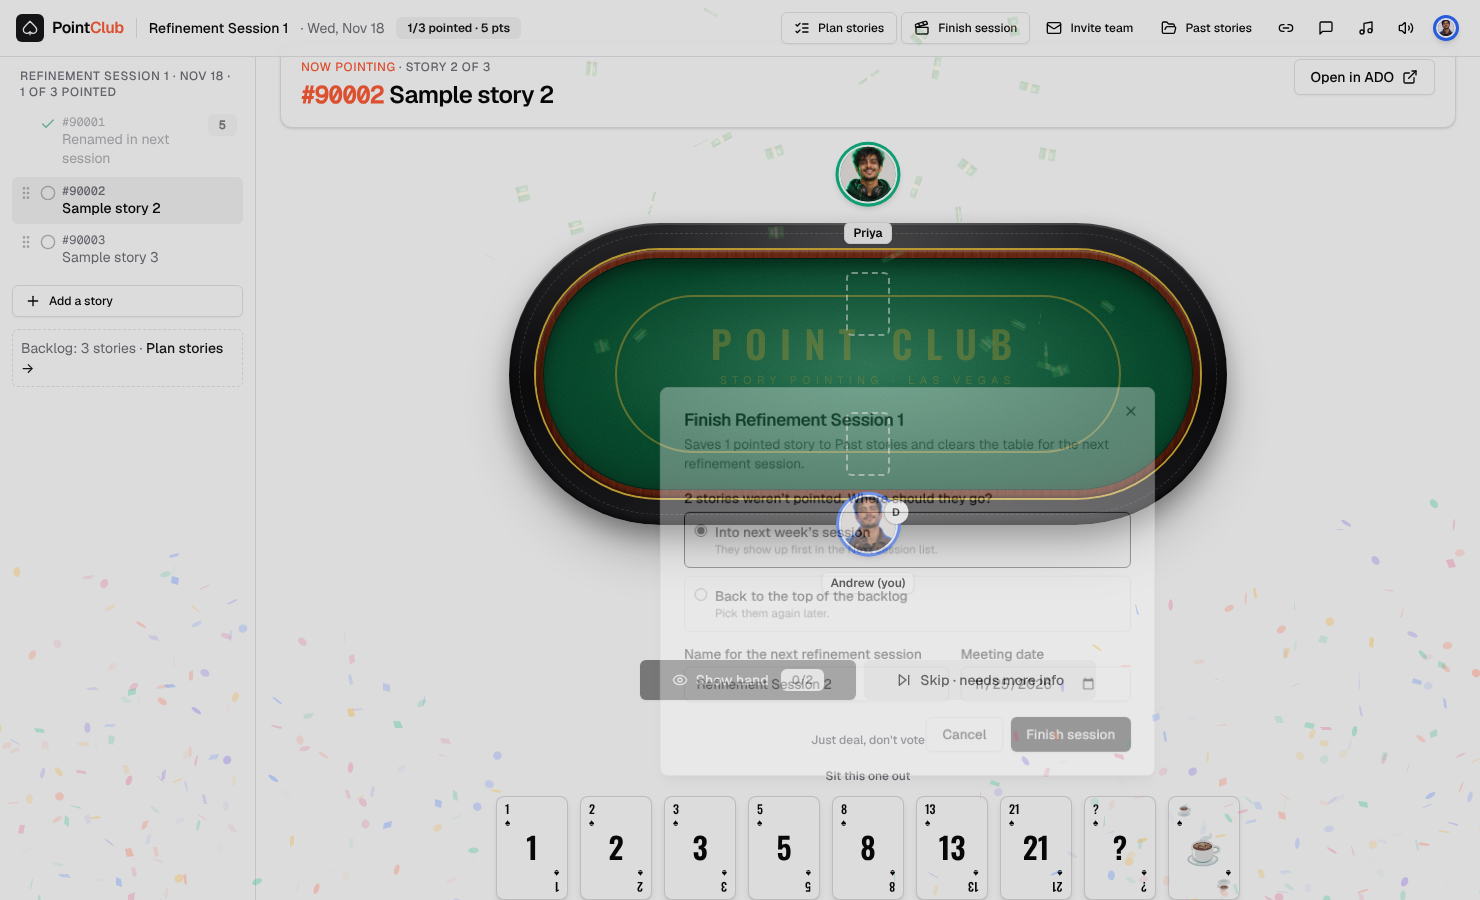
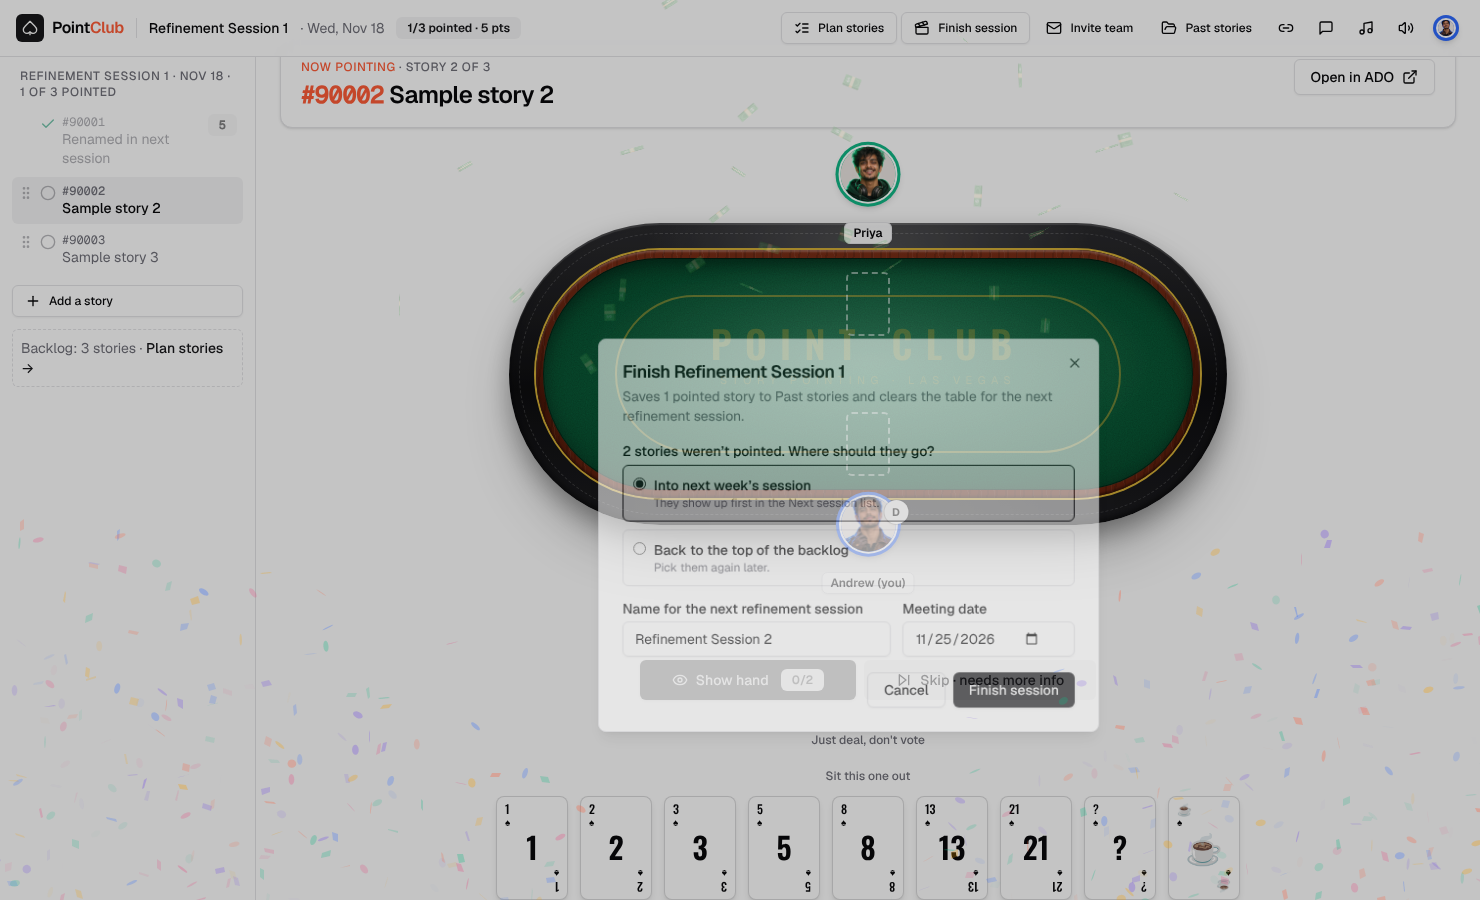
Paste a list of titles without story numbers; pasted links bring their numbers
- Paste a list: lines without a number become stories marked 'Add #' to fill in later
- Pasting rich text where titles are links (ADO, email, Word, Excel) keeps each link and reads
  the story number from it
- Stories without a number show 'No # yet'

Claude-Session: https://claude.ai/code/session_01EANrJrMtc4n72hiZrseqCf

diff --git a/src/screens/Planner.tsx b/src/screens/Planner.tsx
@@ -172,14 +172,14 @@ export function Planner({ api, onBack }: { api: RoomApi; onBack: () => void }) {
                       {isHost ? <input type="checkbox" className="mt-2 h-4 w-4 accent-[hsl(var(--primary))]" checked={picked.includes(s.id)} aria-label={`Pick #${s.number}`}
                         onChange={(e) => setPicked((p) => (e.target.checked ? [...p, s.id] : p.filter((x) => x !== s.id)))} /> : <span />}
                       {isHost ? <>
-                        <Cell value={s.number} numeric className="font-mono" textClass="font-mono text-sm" ariaLabel={`Story number for #${s.number}`} onSave={(v) => save(s, { number: v })} />
+                        <Cell value={s.number} numeric placeholder="Add #" className="font-mono" textClass={cn("font-mono text-sm", !s.number && "text-amber-700")} ariaLabel={`Story number for #${s.number}`} onSave={(v) => save(s, { number: v })} />
                         <div className="min-w-0">
                           <Cell value={s.title} textClass="text-sm leading-snug line-clamp-2 break-words" ariaLabel={`Title for #${s.number}`} onSave={(v) => v && save(s, { title: v })} />
                           {s.note && <div className="truncate px-2 text-xs text-amber-800" title={s.note}>{s.note}</div>}
                         </div>
                         <LinkCell story={s} onSave={(v) => save(s, { url: v })} />
                       </> : <>
-                        <span className="px-2 font-mono text-sm">#{s.number}</span>
+                        <span className="px-2 font-mono text-sm">{s.number ? `#${s.number}` : 'No # yet'}</span>
                         <span className="min-w-0 px-2 py-1 text-sm leading-snug">{s.title}</span>
                         <span className="px-2 py-1 text-xs">{s.url && <a href={s.url} target="_blank" rel="noreferrer" className="inline-flex items-center gap-1 text-primary hover:underline">ADO <ExternalLink className="h-3 w-3" /></a>}</span>
                       </>}
@@ -217,10 +217,10 @@ export function Planner({ api, onBack }: { api: RoomApi; onBack: () => void }) {
                       <span className="pt-1.5 text-right font-mono text-xs text-muted-foreground">{i + 1}</span>
                       <div className="min-w-0">
                         {isHost ? <>
-                          <Cell value={s.number} numeric className="w-28 font-mono" textClass="w-auto py-0.5 font-mono text-xs text-muted-foreground" ariaLabel={`Story number for #${s.number}`} onSave={(v) => save(s, { number: v })} />
+                          <Cell value={s.number} numeric placeholder="Add #" className="w-28 font-mono" textClass={cn("w-auto py-0.5 font-mono text-xs", s.number ? "text-muted-foreground" : "text-amber-700")} ariaLabel={`Story number for #${s.number}`} onSave={(v) => save(s, { number: v })} />
                           <Cell value={s.title} textClass="py-0.5 leading-snug break-words" ariaLabel={`Title for #${s.number}`} onSave={(v) => v && save(s, { title: v })} />
                           {s.note && <div className="px-2 text-xs text-amber-800">{s.note}</div>}
-                        </> : <div className="px-2"><div className="font-mono text-xs text-muted-foreground">#{s.number}</div><div className="leading-snug">{s.title}</div></div>}
+                        </> : <div className="px-2"><div className="font-mono text-xs text-muted-foreground">{s.number ? `#${s.number}` : 'No # yet'}</div><div className="leading-snug">{s.title}</div></div>}
                       </div>
                       <div className="flex flex-col items-end gap-0.5">
                         {isHost ? <LinkCell story={s} onSave={(v) => save(s, { url: v })} />
@@ -254,9 +254,9 @@ export function Planner({ api, onBack }: { api: RoomApi; onBack: () => void }) {
                       <span className="pt-1.5 text-right font-mono text-xs text-muted-foreground">{i + 1}</span>
                       <div className="min-w-0">
                         {isHost && !locked && !s.skipped ? <>
-                          <Cell value={s.number} numeric className="w-28 font-mono" textClass="w-auto py-0.5 font-mono text-xs text-muted-foreground" ariaLabel={`Story number for #${s.number}`} onSave={(v) => save(s, { number: v })} />
+                          <Cell value={s.number} numeric placeholder="Add #" className="w-28 font-mono" textClass={cn("w-auto py-0.5 font-mono text-xs", s.number ? "text-muted-foreground" : "text-amber-700")} ariaLabel={`Story number for #${s.number}`} onSave={(v) => save(s, { number: v })} />
                           <Cell value={s.title} textClass="py-0.5 leading-snug break-words" ariaLabel={`Title for #${s.number}`} onSave={(v) => v && save(s, { title: v })} />
-                        </> : <div className="px-2"><div className="font-mono text-xs text-muted-foreground">#{s.number}</div><div className="leading-snug">{s.title}</div></div>}
+                        </> : <div className="px-2"><div className="font-mono text-xs text-muted-foreground">{s.number ? `#${s.number}` : 'No # yet'}</div><div className="leading-snug">{s.title}</div></div>}
                       </div>
                       <div className="flex flex-col items-end gap-0.5 pt-0.5">
                         {locked ? <Badge variant="secondary" className="font-mono">{label(s.points!)} pts</Badge>

diff --git a/src/lib/parseStories.ts b/src/lib/parseStories.ts
@@ -44,7 +44,7 @@ function cleanTitle(title: string): string {
  * Handles ADO backlog screenshots where each line is "<row #> <work item ID> <title>": the short row number is
  * ignored and the long work item ID becomes the story number. A link on the same line becomes the story's link.
  */
-export function parseStories(text: string): ParsedStory[] {
+export function parseStories(text: string, opts: { allowMissingNumber?: boolean } = {}): ParsedStory[] {
   const lines = text.split(/\r?\n/).map((l) => l.replace(/[•●○◆■□]/g, ' ').replace(/^[\s|]+|[\s|]+$/g, '').replace(/\s+/g, ' ').trim()).filter(Boolean)
   const out: ParsedStory[] = []
   const seen = new Set<string>()
@@ -65,7 +65,17 @@ export function parseStories(text: string): ParsedStory[] {
     const m2 = rest.match(/^[:.\-–—|)\]]*\s*#?(\S+)\s*(.*)$/)
     const second = asNumber(m2?.[1])
     if (second && second.length >= 5 && rowNum) { number = second; rest = m2![2] ?? '' }
-    if (!number) continue
+    if (!number) {
+      // Pasted list of titles without numbers: keep them (number from the link if there is one, else left blank to fill in).
+      if (!opts.allowMissingNumber || !/[A-Za-z]{3}/.test(line) || line.length < 6) continue
+      const fromUrl = url?.match(/(\d{4,8})(?!.*\d{4,8})/)?.[1] ?? ''
+      const t = cleanTitle(line)
+      const key = fromUrl || 't:' + t.toLowerCase()
+      if (t.length < 3 || seen.has(key)) continue
+      seen.add(key)
+      out.push(url ? { number: fromUrl, title: t, url } : { number: fromUrl, title: t })
+      continue
+    }
 
     let title = cleanTitle(rest)
     // Number alone on a line: the title is usually the next line.
@@ -88,4 +98,27 @@ export function toAdoPattern(input: string): string {
   if (!s || s.includes('{id}')) return s
   const m = s.match(/^(.*?)(\d{3,8})(\D*)$/) // last run of digits is the work item id
   return m ? `${m[1]}{id}${m[3]}` : s
+}
+
+/**
+ * Stories from pasted rich text (ADO, email, Word, Excel) where each title is a link: the link becomes the story's
+ * ADO link and the work item number is read from it (e.g. ...?workitem=650454 or .../edit/650454).
+ */
+export function parseHtmlLinks(html: string): ParsedStory[] {
+  const out: ParsedStory[] = []
+  const seen = new Set<string>()
+  const decode = (t: string) => t.replace(/<[^>]+>/g, '').replace(/&nbsp;/g, ' ').replace(/&amp;/g, '&').replace(/&lt;/g, '<').replace(/&gt;/g, '>').replace(/&quot;/g, '"').replace(/&#39;/g, "'").replace(/\s+/g, ' ').trim()
+  for (const m of html.matchAll(/<a\b[^>]*href\s*=\s*["']([^"']+)["'][^>]*>([\s\S]*?)<\/a>/gi)) {
+    const url = decode(m[1]); const text = decode(m[2])
+    if (!/^https?:\/\//i.test(url) || !/[A-Za-z]{3}/.test(text)) continue
+    const number = url.match(/(?:workitem=|\/edit\/|\/workitems?\/)(\d{3,8})/i)?.[1] ?? url.match(/(\d{5,8})(?!.*\d{5,8})/)?.[1] ?? ''
+    // The link text may itself start with the number ("650454 Title"); keep just the title.
+    const lead = text.match(/^#?(\d{3,8})\s*[:\-–—]?\s*(.*)$/)
+    const title = cleanTitle(lead && (!number || lead[1] === number) ? lead[2] : text)
+    const num = number || lead?.[1] || ''
+    const key = num || 't:' + title.toLowerCase()
+    if (title.length < 3 || seen.has(key)) continue
+    seen.add(key); out.push({ number: num, title, url })
+  }
+  return out
 }

diff --git a/src/components/StoryImport.tsx b/src/components/StoryImport.tsx
@@ -5,7 +5,7 @@ import { Input } from '@/components/ui/input'
 import { Textarea } from '@/components/ui/textarea'
 import { Dialog, DialogContent, DialogDescription, DialogHeader, DialogTitle } from '@/components/ui/dialog'
 import { readImage } from '@/lib/ocr'
-import { parseStories, type ParsedStory } from '@/lib/parseStories'
+import { parseHtmlLinks, parseStories, type ParsedStory } from '@/lib/parseStories'
 
 // Password managers mistake these boxes for login fields and add their own icons; tell them to stay out.
 export const NO_AUTOFILL = { autoComplete: 'off', 'data-lpignore': 'true', 'data-1p-ignore': 'true', 'data-bwignore': 'true', 'data-form-type': 'other' } as const
@@ -63,8 +63,8 @@ export function StoryImport({ onAdd }: { onAdd: Add }) {
   }, []) // eslint-disable-line react-hooks/exhaustive-deps
 
   const addList = async () => {
-    const found = parseStories(raw)
-    if (!found.length) { setError('No stories found. Put one story per line: the number, then the title.'); return }
+    const found = parseStories(raw, { allowMissingNumber: true })
+    if (!found.length) { setError('No stories found. Put one story per line.'); return }
     setError(null); report('List added', await onAdd(found)); setRaw('')
   }
   const addOne = async () => {
@@ -102,8 +102,13 @@ export function StoryImport({ onAdd }: { onAdd: Add }) {
       )}
       {mode === 'list' && (
         <div className="grid gap-2">
-          <p className="text-xs text-muted-foreground">One story per line: the story number, then the title.</p>
-          <Textarea autoFocus className="h-24 font-mono text-xs" placeholder={'123456 Story title\n123457 Another story title'} value={raw} onChange={(e) => setRaw(e.target.value)} aria-label="Paste stories" />
+          <p className="text-xs text-muted-foreground">One story per line. The story number is optional (you can add it after). Copying from ADO, an email or a doc where the titles are links? Paste here and the links come along, with the story numbers read from them.</p>
+          <Textarea autoFocus onPaste={async (e) => {
+            // Titles that are links (from ADO, email, Word, Excel): keep the link and read the story number from it.
+            const html = e.clipboardData.getData('text/html')
+            const linked = html ? parseHtmlLinks(html) : []
+            if (linked.length) { e.preventDefault(); setError(null); report(`Pasted ${linked.length} linked ${linked.length === 1 ? 'story' : 'stories'}`, await onAdd(linked)) }
+          }} className="h-24 font-mono text-xs" placeholder={'123456 Story title\nStory title without a number'} value={raw} onChange={(e) => setRaw(e.target.value)} aria-label="Paste stories" />
           <Button size="sm" className="justify-self-start" disabled={!raw.trim()} onClick={addList}>Add list to backlog</Button>
         </div>
       )}

diff --git a/src/screens/Theater.tsx b/src/screens/Theater.tsx
@@ -266,7 +266,7 @@ export function Theater({ api, openVault, openPlanner, onLobby }: { api: RoomApi
                     : s.skipped ? <SkipForward className="mt-0.5 h-4 w-4 shrink-0 text-amber-600" />
                     : <Circle className="mt-0.5 h-4 w-4 shrink-0 text-muted-foreground/50" />}
                   <span className="flex-1 min-w-0">
-                    <span className="block font-mono text-xs text-muted-foreground">#{s.number}</span>
+                    <span className="block font-mono text-xs text-muted-foreground">{s.number ? `#${s.number}` : 'No # yet'}</span>
                     <span className={cn('block line-clamp-2 break-words leading-snug', s.id === current?.id && 'text-foreground')} title={s.title}>{s.title}</span>
                     {isHost && !s.url && !s.points && <span className="block text-[11px] text-amber-700">No ADO link</span>}
                   </span>
@@ -315,7 +315,7 @@ export function Theater({ api, openVault, openPlanner, onLobby }: { api: RoomApi
                 <div className="flex-1 min-w-0">
                   <div className="label"><span className="text-accent">Now pointing</span> · Story {lineup.findIndex((s) => s.id === current.id) + 1} of {lineup.length}{room && room.round > 1 ? ` · Revote ${room.round - 1}` : ''}</div>
                   <h1 className={cn('mt-1 font-semibold tracking-tight break-words line-clamp-3', current.title.length > 70 ? 'text-lg' : 'text-2xl')} title={current.title}>
-                    <span className="font-mono text-accent">#{current.number}</span> {current.title}
+                    <span className="font-mono text-accent">{current.number ? `#${current.number}` : ''}</span> {current.title}
                   </h1>
                   {current.note && <p className="mt-1 text-sm text-amber-800">Note: {current.note}</p>}
                 </div>
@@ -325,7 +325,7 @@ export function Theater({ api, openVault, openPlanner, onLobby }: { api: RoomApi
                       <PopoverTrigger asChild><Button variant="ghost" size="sm" className="shrink-0 text-muted-foreground">Add ADO link</Button></PopoverTrigger>
                       <PopoverContent align="end" className="w-96">
                         <form className="grid gap-2" onSubmit={(e) => { e.preventDefault(); const url = String(new FormData(e.currentTarget).get('url') ?? '').trim(); if (url) actions.editStory({ ...current, url }) }}>
-                          <div className="text-sm font-medium">ADO link for #{current.number}</div>
+                          <div className="text-sm font-medium">ADO link for {current.number ? `#${current.number}` : 'this story'}</div>
                           <Input name="url" autoFocus placeholder="Paste the story's link from ADO" />
                           <Button type="submit" size="sm">Save link</Button>
                         </form>

diff --git a/src/lib/useRoom.ts b/src/lib/useRoom.ts
@@ -14,9 +14,11 @@ export const isOnlineAt = (m: { lastSeen: number }, now: number) => now - (m.las
 export const isOpen = (s: Story) => !s.points && !s.skipped
 
 /** Stories whose number isn't already in the backlog or session (and not repeated within the batch). */
-export function onlyNew<T extends { number: string }>(existing: { number: string }[], rows: T[]): T[] {
-  const seen = new Set(existing.map((s) => s.number))
-  return rows.filter((r) => (seen.has(r.number) ? false : (seen.add(r.number), true)))
+export function onlyNew<T extends { number: string; title?: string }>(existing: { number: string; title?: string }[], rows: T[]): T[] {
+  // Same story number = same story. Stories without a number yet are matched by title instead.
+  const key = (r: { number: string; title?: string }) => (r.number ? r.number : 't:' + (r.title ?? '').trim().toLowerCase())
+  const seen = new Set(existing.map(key))
+  return rows.filter((r) => (seen.has(key(r)) ? false : (seen.add(key(r)), true)))
 }
 
 /** Renumber stories 0..n in the given order; returns only the ones whose order changed. */
@@ -205,7 +207,7 @@ export function useRoom(roomId: string) {
       if (!activeSprint || !room) return { added: [] as Story[], skipped: rows.length }
       const all = storiesRef.current
       const planned = all.filter((s) => s.sprintId === backlogId || s.sprintId === nextId || s.sprintId === activeSprint.id)
-      const fresh = onlyNew(planned, rows.map((r) => ({ ...r, number: r.number.trim(), title: r.title.trim() })).filter((r) => r.number && r.title))
+      const fresh = onlyNew(planned, rows.map((r) => ({ ...r, number: r.number.trim(), title: r.title.trim() })).filter((r) => r.title))
       const target = to === 'backlog' ? backlogId : activeSprint.id
       const list = all.filter((s) => s.sprintId === target)
       if (to === 'backlog' && !snap.sprints.some((s) => s.id === backlogId))

diff --git a/src/lib/logic.test.ts b/src/lib/logic.test.ts
@@ -123,3 +123,25 @@ describe('session dates', () => {
   })
   it('next session defaults to a week after a future date', () => expect(nextWeek({ meetingDate: '2099-03-01' })).toBe('2099-03-08'))
 })
+
+import { parseHtmlLinks } from './parseStories'
+describe('pasting titles without numbers', () => {
+  const list = `Examinee Portal |  Show Up to Three Phone Numbers for Text and Voice Opt-In/Opt-Out
+Examinee Portal | Hide appointments in error (DBQ #300) from My Appointments
+Provider Portal: Add 2026 tax forms from Avalara
+NGV2Services | Replace blocking .Result calls`
+  it('keeps each line as a story with the number left blank', () => {
+    const r = parseStories(list, { allowMissingNumber: true })
+    expect(r.map((x) => x.number)).toEqual(['', '', '', ''])
+    expect(r[1].title).toBe('Examinee Portal | Hide appointments in error (DBQ #300) from My Appointments')
+    expect(r[2].title).toBe('Provider Portal: Add 2026 tax forms from Avalara')
+  })
+  it('is not used for screenshots (stray text there stays out)', () => expect(parseStories(list)).toEqual([]))
+  it('reads links and story numbers from pasted rich text', () => {
+    const html = '<ul><li><a href="https://qtcado.qtcm.com/DefaultCollection/QTCAgile/_backlogs/backlog/Team2/Stories/?workitem=655599">Examinee Portal | Show Up to Three Phone Numbers</a></li><li><a href="https://dev.azure.com/o/p/_workitems/edit/655805">Provider Portal: Add 2026 tax forms &amp; more</a></li></ul>'
+    expect(parseHtmlLinks(html)).toEqual([
+      { number: '655599', title: 'Examinee Portal | Show Up to Three Phone Numbers', url: 'https://qtcado.qtcm.com/DefaultCollection/QTCAgile/_backlogs/backlog/Team2/Stories/?workitem=655599' },
+      { number: '655805', title: 'Provider Portal: Add 2026 tax forms & more', url: 'https://dev.azure.com/o/p/_workitems/edit/655805' },
+    ])
+  })
+})

diff --git a/src/screens/Agenda.tsx b/src/screens/Agenda.tsx
@@ -39,7 +39,7 @@ export function Agenda({ api }: { api: RoomApi }) {
                 <span className="w-6 pt-0.5 text-right text-sm tabular-nums text-muted-foreground">{i + 1}.</span>
                 {s.points ? <Check className="mt-1 h-4 w-4 shrink-0 text-emerald-600" /> : s.skipped ? <SkipForward className="mt-1 h-4 w-4 shrink-0 text-amber-600" /> : <Circle className="mt-1 h-4 w-4 shrink-0 text-muted-foreground/40" />}
                 <div className="min-w-0 flex-1">
-                  <div className="break-words"><span className="font-mono text-sm text-muted-foreground">#{s.number}</span> <span className="font-medium">{s.title}</span></div>
+                  <div className="break-words"><span className="font-mono text-sm text-muted-foreground">{s.number ? `#${s.number}` : 'No # yet'}</span> <span className="font-medium">{s.title}</span></div>
                   {s.note && <div className="text-sm text-amber-800">Note: {s.note}</div>}
                 </div>
                 {s.points && <Badge variant="secondary" className="font-mono">{label(s.points)} pts</Badge>}
